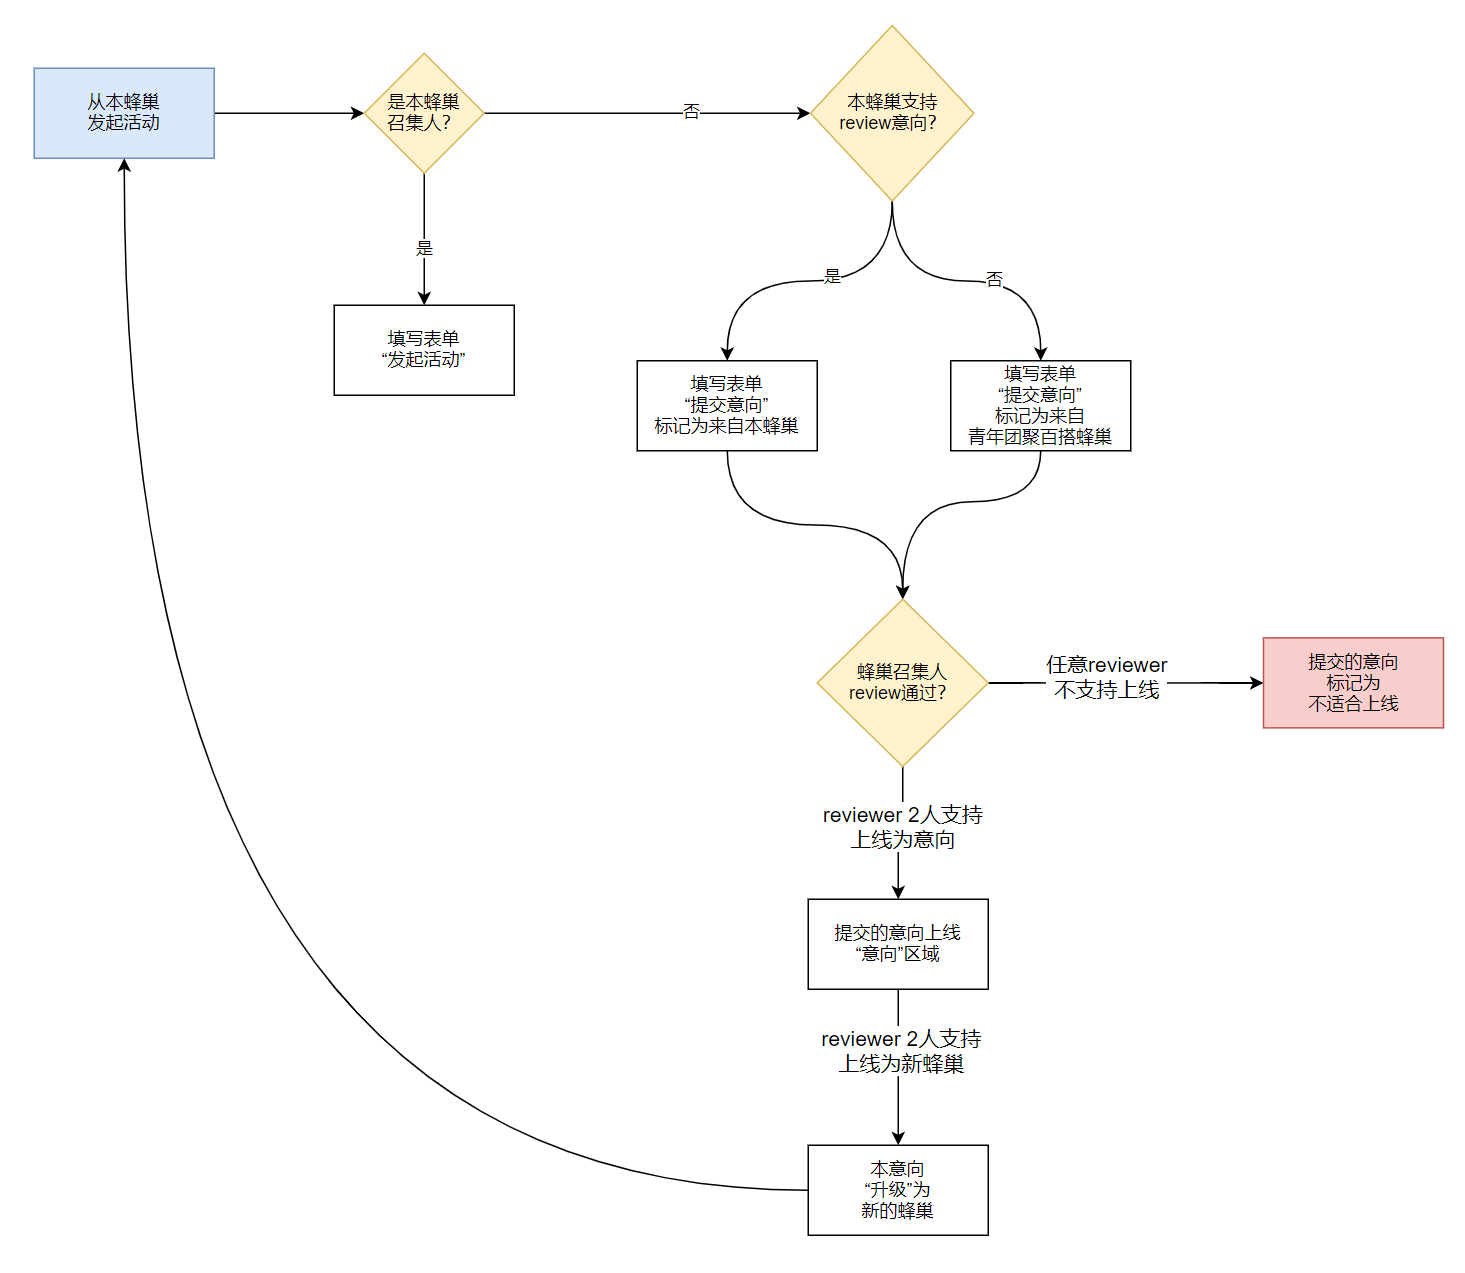
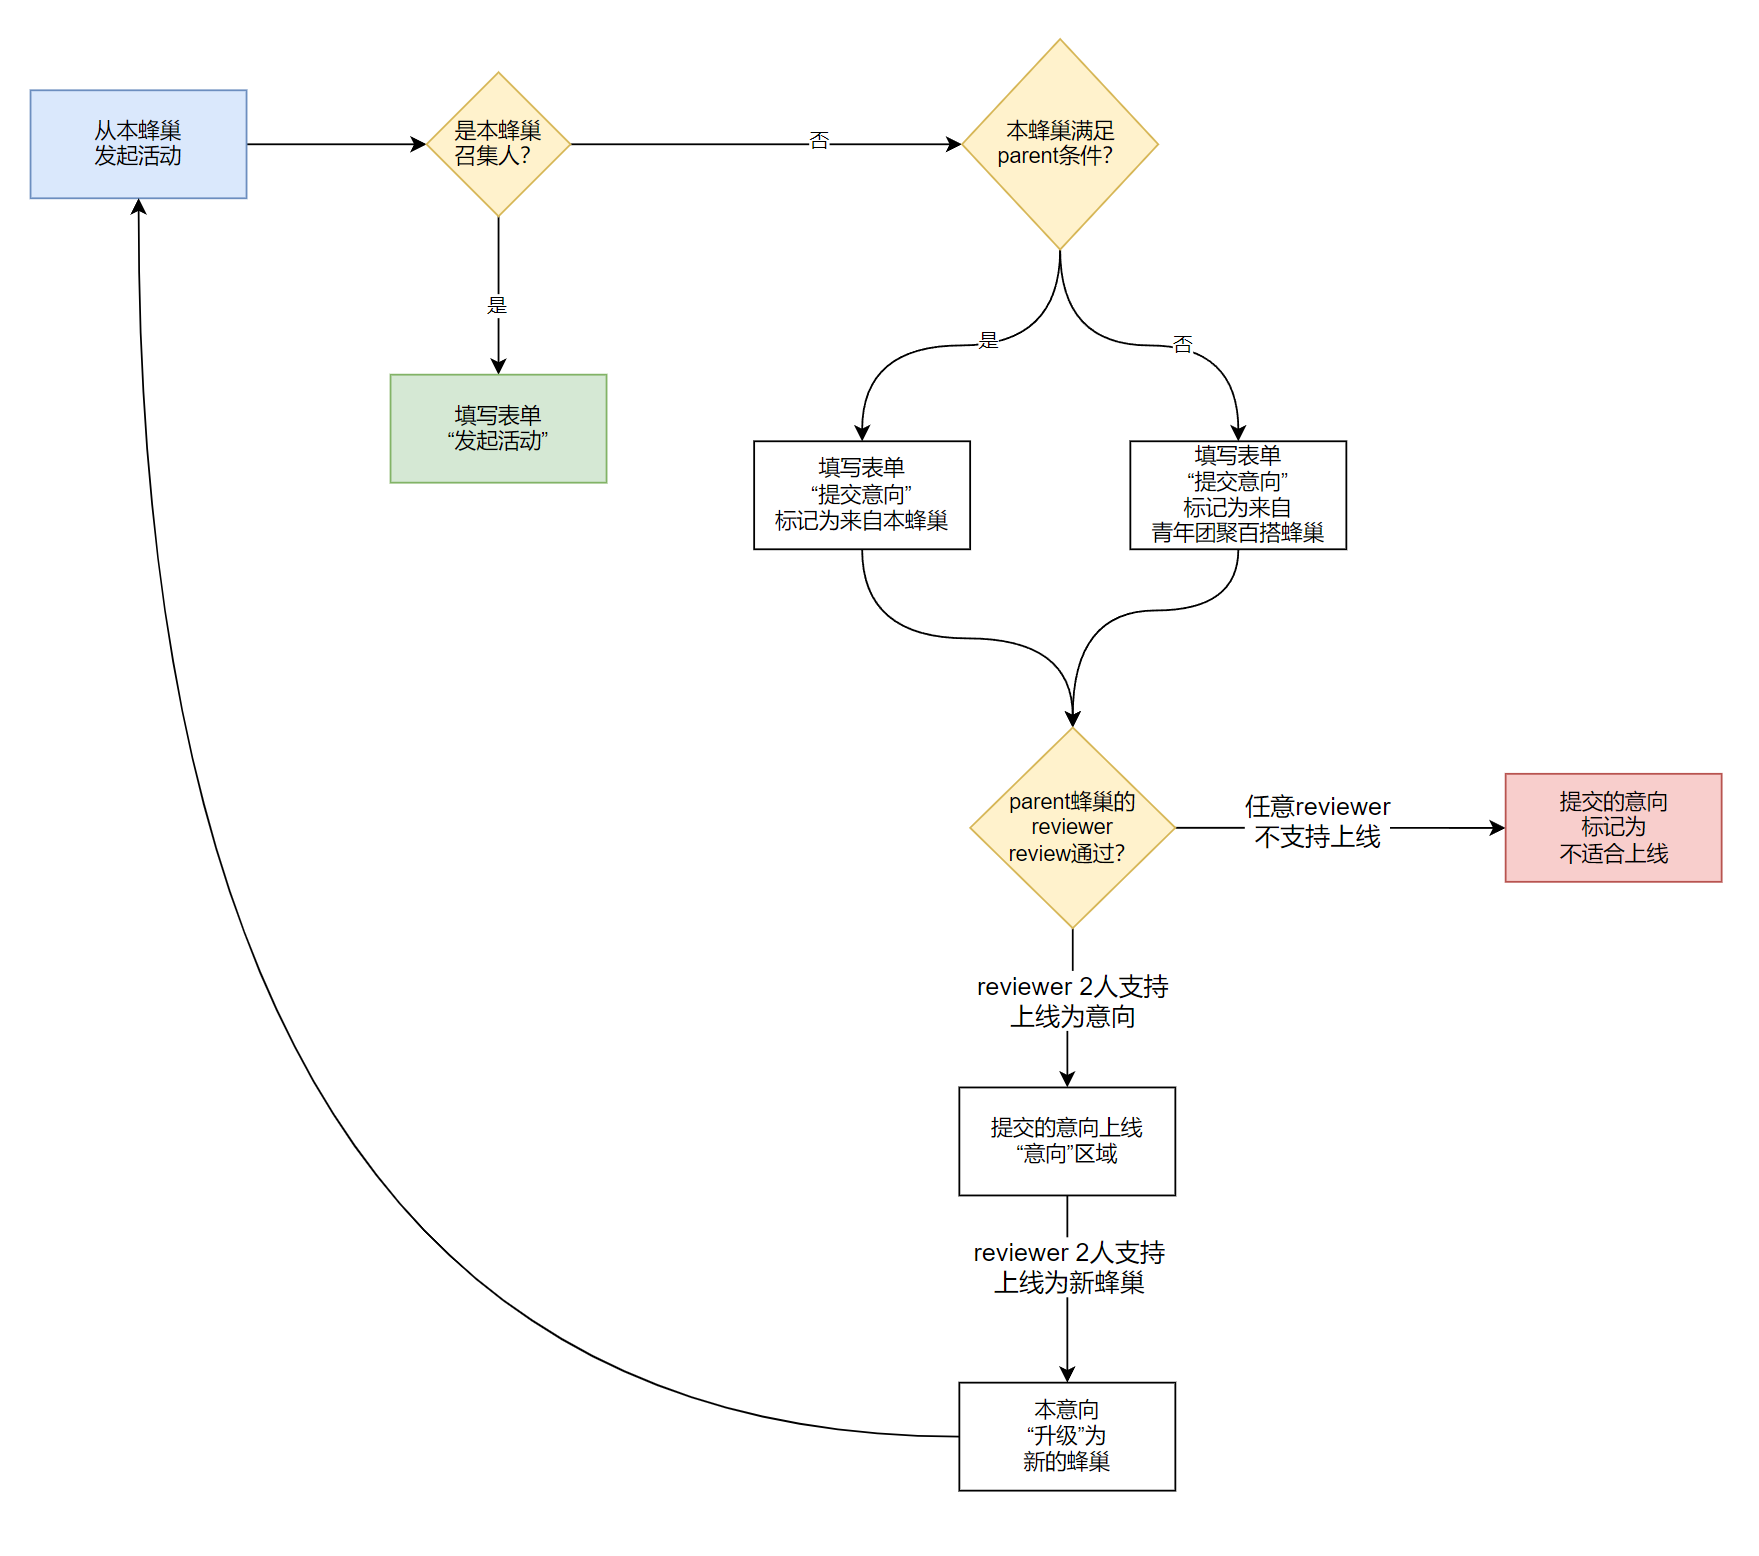
更新蜂巢部分PRD

diff --git a/docs/prd/hive/0-about-hive.md b/docs/prd/hive/0-about-hive.md
@@ -1,0 +1,70 @@
+# 蜂巢概述（含流程）
+
+## 什么是蜂巢
+
+蜂巢的基本概念见前文“概念介绍”部分。
+
+简而言之，一个自愿者在2050从“被人带着玩儿”发展到“带别人一起玩儿”这个过程，是通过蜂巢这种组织结构展开的。
+
+## 蜂巢的玩法
+
+- 加入一个蜂巢
+- 发起（裂变）一个children蜂巢【意向】
+- 不成熟的意向变成成熟的蜂巢
+- 从蜂巢发起活动
+
+### 流程：加入一个蜂巢
+
+1. 自愿者小明是一个蜂巢A的召集人（owner或非owner）
+1. 自愿者小明邀请自愿者小红成为这个蜂巢A的召集人
+1. 自愿者小红成为了蜂巢A的召集人
+
+![](../4/hive-add-coord.png)
+
+### 流程：发起（裂变）一个children蜂巢【意向】
+
+这里需要理解一组概念：parent蜂巢与children蜂巢。
+
+当有人从蜂巢A裂变出一个蜂巢B时，则蜂巢A是蜂巢B的parent蜂巢；反过来说，蜂巢B是蜂巢A的children蜂巢。
+
+**注意：**
+
+不是所有蜂巢都可以作为parent蜂巢！parent蜂巢要承担“review其children蜂巢”的责任，所以一个蜂巢要成为parent蜂巢要满足一个最低条件：本蜂巢内至少有>=2个召集人是reviewer。如不满足条件或者无特别指定，则一个蜂巢默认的parent蜂巢为1号蜂巢，即“青年团聚百搭蜂巢”。
+
+当一个children蜂巢刚刚被发起时，里面的召集人只有1个人，即发起人本人。这种情况下，reviewer一般不会直接将这个新的children蜂巢上线为正式的蜂巢，而是会将其上线为【意向】。【意向】的意思就是说这个蜂巢还不成熟，还不能用来发起活动；等有了更多的召集人加入，就代表这个【意向】成熟了，就可以成为一个**成熟的**蜂巢去发起活动了。
+
+流程：
+
+1. 自愿者小红从蜂巢A发起（裂变）新蜂巢
+1. 一个新的蜂巢B进入到待审核后台。如果蜂巢A满足parent蜂巢条件，则蜂巢B的parent蜂巢是蜂巢A；如果蜂巢A不符合parent蜂巢条件，则其parent蜂巢是“青年团聚百搭蜂巢”
+1. parent蜂巢里有2位reviewer审核通过该意向后，蜂巢B的【意向】上线了
+
+![](../4/hive-review-workflow.png)
+
+### 流程：不成熟的意向变成成熟的蜂巢
+
+一个不成熟的蜂巢【意向】什么时候能够变成一个“成熟的”蜂巢？这同样是通过reviewer的操作：只要parent蜂巢里有2个reviewer将其审核为成熟的蜂巢，它就被判定为成熟。具体操作见后续的“review蜂巢”章节。
+
+![](../4/hive-review-workflow2.png)
+
+### 流程：从蜂巢发起活动
+
+我们平时接触的其他会议网站，一般会有一个按钮叫做“我也要发起活动（submit a proposal）”，用户点击了之后就可以直接填写一个表单，说明我要做的分享主题是什么，内容是什么，分享嘉宾是谁，等等。提交之后有一个组委会来审核这些proposal，通过的proposal就可以拿到会议上来进行分享。一般常见的情况是这样。
+
+但是2050大会设计了一个不同的逻辑：
+
+1. 活动必须从一个蜂巢发起（成熟的蜂巢）
+2. 只有本蜂巢召集人能够从本蜂巢发起活动
+
+这就意味着
+
+3. 如果一个新用户要发起一场新的活动，ta要么成为一个已有蜂巢的召集人，要么成为一个新蜂巢的召集人
+
+所以，虽然我们在2050网站上仍然会看到用户预期的“提交proposal”的按钮，但是这个按钮需要对于该用户的所属蜂巢状态进行一些前置判定。我们希望看到的趋势是：
+
+1. 如果一个新用户是被一个老用户interface进来的，则老用户先把新用户纳入自己的蜂巢熟悉2050，了解玩法后可以创建新蜂巢
+2. 如果一个新用户是离散的，没有interface关系，则十大容器召集人要帮忙新用户熟悉2050，同时撮合ta与其他新用户一起组建新蜂巢
+
+整个前置判定流程如下：
+
+![](../4/hive-container-workflow.png)

diff --git a/docs/prd/hive/2-single-hive-front.md b/docs/prd/hive/2-single-hive-front.md
@@ -13,3 +13,16 @@
 ## 单独意向页面
 
 ![](../4/single-proposal.png)
+
+## 一个蜂巢涉及的数据
+
+- 基础信息
+  - 蜂巢名称
+  - 蜂巢介绍
+  - 蜂巢logo
+  - 蜂巢owner
+- 关联信息
+  - 蜂巢召集人
+  - parent蜂巢、children蜂巢
+  - 蜂巢相关的动态
+  - 蜂巢发起的活动

diff --git a/docs/prd/hive/3-new-hive.md b/docs/prd/hive/3-new-hive.md
@@ -7,3 +7,4 @@
 从三个按钮过来，显示的界面内文字表述略有不同。
 
 ## 原型图
+

diff --git a/docs/prd/containers/0-overview.md b/docs/prd/containers/0-overview.md
@@ -1,4 +1,4 @@
-# 十大容器概述
+# 十大容器概述（含流程）
 
 ## 什么是容器
 
